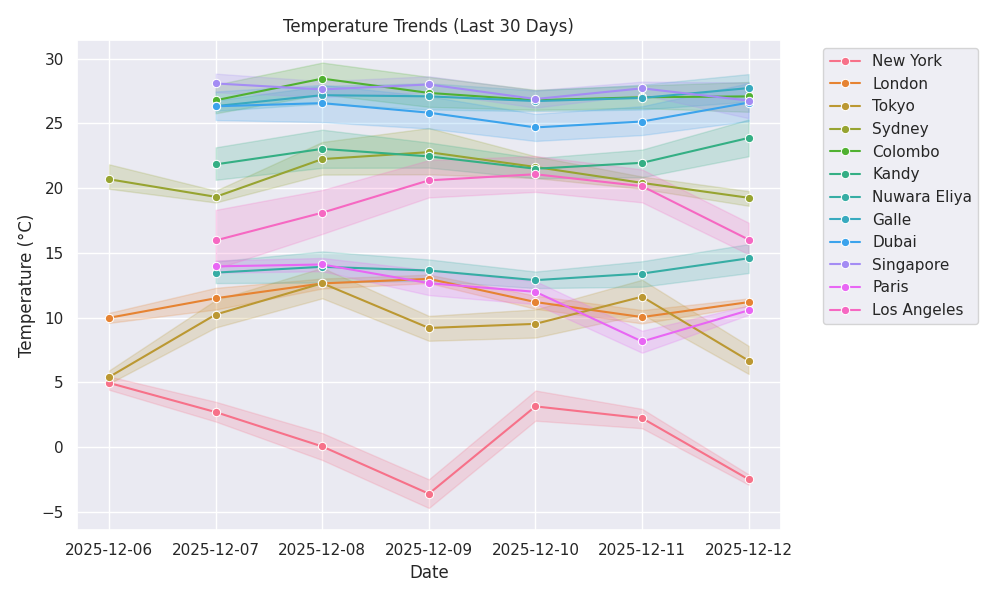
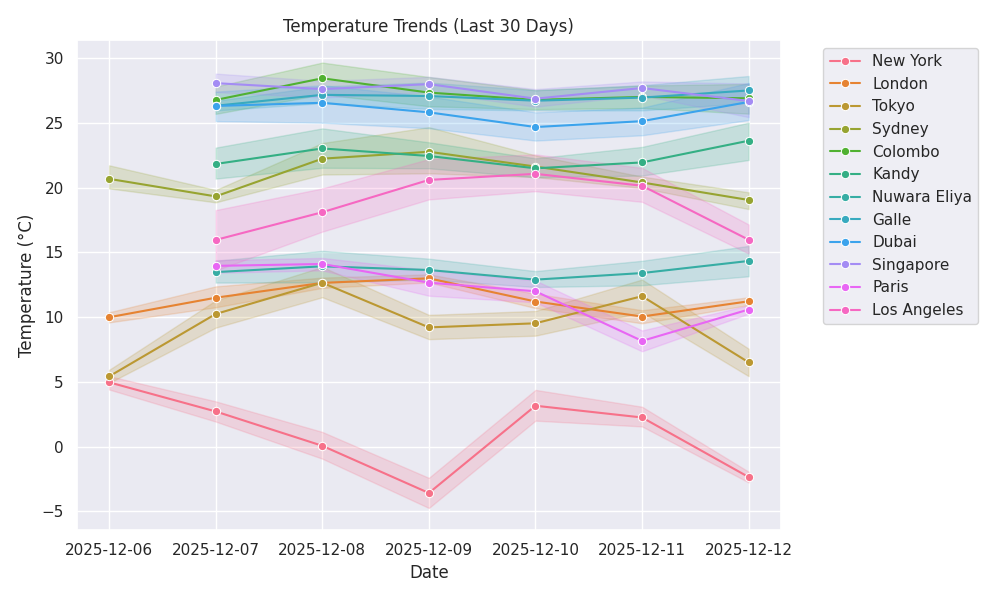
🌦 Weather update: 2025-12-12 16:15

diff --git a/public/index.html b/public/index.html
@@ -11,7 +11,7 @@
     <div class="max-w-6xl mx-auto">
         <header class="mb-8 text-center">
             <h1 class="text-4xl font-bold mb-2">🌍 Global Weather Dashboard</h1>
-            <p class="text-slate-400">Last Updated: 2025-12-12 15:15:16</p>
+            <p class="text-slate-400">Last Updated: 2025-12-12 16:15:40</p>
         </header>
         
         <!-- AI Summary -->
@@ -29,11 +29,11 @@
                     <span class="text-3xl">☁</span>
                 </div>
                 <div class="mt-4">
-                    <p class="text-4xl font-bold">11.28°C</p>
+                    <p class="text-4xl font-bold">10.84°C</p>
                     <p class="text-slate-400 capitalize">overcast clouds</p>
                 </div>
                 <div class="mt-4 text-sm text-slate-500">
-                    <p>💧 Humidity: 89%</p>
+                    <p>💧 Humidity: 90%</p>
                     <p>💨 Wind: 3.09 m/s</p>
                 </div>
             </div>
@@ -44,12 +44,12 @@
                     <span class="text-3xl">☁</span>
                 </div>
                 <div class="mt-4">
-                    <p class="text-4xl font-bold">11.96°C</p>
-                    <p class="text-slate-400 capitalize">overcast clouds</p>
+                    <p class="text-4xl font-bold">11.52°C</p>
+                    <p class="text-slate-400 capitalize">broken clouds</p>
                 </div>
                 <div class="mt-4 text-sm text-slate-500">
-                    <p>💧 Humidity: 86%</p>
-                    <p>💨 Wind: 3.6 m/s</p>
+                    <p>💧 Humidity: 88%</p>
+                    <p>💨 Wind: 3.13 m/s</p>
                 </div>
             </div>
             
@@ -59,12 +59,12 @@
                     <span class="text-3xl">☁</span>
                 </div>
                 <div class="mt-4">
-                    <p class="text-4xl font-bold">16.77°C</p>
+                    <p class="text-4xl font-bold">16.22°C</p>
                     <p class="text-slate-400 capitalize">few clouds</p>
                 </div>
                 <div class="mt-4 text-sm text-slate-500">
                     <p>💧 Humidity: 93%</p>
-                    <p>💨 Wind: 1.69 m/s</p>
+                    <p>💨 Wind: 1.76 m/s</p>
                 </div>
             </div>
             
@@ -74,12 +74,12 @@
                     <span class="text-3xl">☁</span>
                 </div>
                 <div class="mt-4">
-                    <p class="text-4xl font-bold">26.0°C</p>
+                    <p class="text-4xl font-bold">25.89°C</p>
                     <p class="text-slate-400 capitalize">broken clouds</p>
                 </div>
                 <div class="mt-4 text-sm text-slate-500">
-                    <p>💧 Humidity: 91%</p>
-                    <p>💨 Wind: 3.09 m/s</p>
+                    <p>💧 Humidity: 93%</p>
+                    <p>💨 Wind: 2.06 m/s</p>
                 </div>
             </div>
             
@@ -104,12 +104,12 @@
                     <span class="text-3xl">☁</span>
                 </div>
                 <div class="mt-4">
-                    <p class="text-4xl font-bold">24.86°C</p>
+                    <p class="text-4xl font-bold">24.59°C</p>
                     <p class="text-slate-400 capitalize">broken clouds</p>
                 </div>
                 <div class="mt-4 text-sm text-slate-500">
-                    <p>💧 Humidity: 88%</p>
-                    <p>💨 Wind: 3.1 m/s</p>
+                    <p>💧 Humidity: 91%</p>
+                    <p>💨 Wind: 2.92 m/s</p>
                 </div>
             </div>
             
@@ -119,12 +119,12 @@
                     <span class="text-3xl">☁</span>
                 </div>
                 <div class="mt-4">
-                    <p class="text-4xl font-bold">11.07°C</p>
+                    <p class="text-4xl font-bold">10.91°C</p>
                     <p class="text-slate-400 capitalize">broken clouds</p>
                 </div>
                 <div class="mt-4 text-sm text-slate-500">
-                    <p>💧 Humidity: 99%</p>
-                    <p>💨 Wind: 0.62 m/s</p>
+                    <p>💧 Humidity: 97%</p>
+                    <p>💨 Wind: 1.07 m/s</p>
                 </div>
             </div>
             
@@ -134,12 +134,12 @@
                     <span class="text-3xl">☁</span>
                 </div>
                 <div class="mt-4">
-                    <p class="text-4xl font-bold">20.35°C</p>
+                    <p class="text-4xl font-bold">20.19°C</p>
                     <p class="text-slate-400 capitalize">overcast clouds</p>
                 </div>
                 <div class="mt-4 text-sm text-slate-500">
                     <p>💧 Humidity: 98%</p>
-                    <p>💨 Wind: 1.76 m/s</p>
+                    <p>💨 Wind: 1.95 m/s</p>
                 </div>
             </div>
             
@@ -149,27 +149,27 @@
                     <span class="text-3xl">🌧</span>
                 </div>
                 <div class="mt-4">
-                    <p class="text-4xl font-bold">23.91°C</p>
+                    <p class="text-4xl font-bold">24.46°C</p>
                     <p class="text-slate-400 capitalize">moderate rain</p>
                 </div>
                 <div class="mt-4 text-sm text-slate-500">
                     <p>💧 Humidity: 97%</p>
-                    <p>💨 Wind: 4.99 m/s</p>
+                    <p>💨 Wind: 5.1 m/s</p>
                 </div>
             </div>
             
             <div class="bg-slate-800 p-6 rounded-xl shadow-lg border-t-4 border-blue-500 hover:scale-105 transition-transform">
                 <div class="flex justify-between items-start">
                     <h3 class="text-xl font-bold">New York</h3>
-                    <span class="text-3xl">☀</span>
+                    <span class="text-3xl">☁</span>
                 </div>
                 <div class="mt-4">
-                    <p class="text-4xl font-bold">-1.75°C</p>
-                    <p class="text-slate-400 capitalize">clear sky</p>
+                    <p class="text-4xl font-bold">-0.71°C</p>
+                    <p class="text-slate-400 capitalize">few clouds</p>
                 </div>
                 <div class="mt-4 text-sm text-slate-500">
-                    <p>💧 Humidity: 48%</p>
-                    <p>💨 Wind: 8.49 m/s</p>
+                    <p>💧 Humidity: 44%</p>
+                    <p>💨 Wind: 9.77 m/s</p>
                 </div>
             </div>
             
@@ -179,12 +179,12 @@
                     <span class="text-3xl">☁</span>
                 </div>
                 <div class="mt-4">
-                    <p class="text-4xl font-bold">4.09°C</p>
+                    <p class="text-4xl font-bold">4.08°C</p>
                     <p class="text-slate-400 capitalize">few clouds</p>
                 </div>
                 <div class="mt-4 text-sm text-slate-500">
-                    <p>💧 Humidity: 47%</p>
-                    <p>💨 Wind: 8.75 m/s</p>
+                    <p>💧 Humidity: 48%</p>
+                    <p>💨 Wind: 7.2 m/s</p>
                 </div>
             </div>
             
@@ -194,12 +194,12 @@
                     <span class="text-3xl">🌫</span>
                 </div>
                 <div class="mt-4">
-                    <p class="text-4xl font-bold">14.07°C</p>
+                    <p class="text-4xl font-bold">15.33°C</p>
                     <p class="text-slate-400 capitalize">fog</p>
                 </div>
                 <div class="mt-4 text-sm text-slate-500">
                     <p>💧 Humidity: 71%</p>
-                    <p>💨 Wind: 1.54 m/s</p>
+                    <p>💨 Wind: 0.0 m/s</p>
                 </div>
             </div>
             

diff --git a/README.md b/README.md
@@ -8,8 +8,8 @@
 
 ---
 
-## ⚡ Live Status (Updated: 2025-12-12 15:15 UTC)
-![Paris](https://img.shields.io/badge/Paris-11.28°C-blue) ![London](https://img.shields.io/badge/London-11.96°C-blue) ![Sydney](https://img.shields.io/badge/Sydney-16.77°C-green) ![Singapore](https://img.shields.io/badge/Singapore-26.0°C-orange) ![Dubai](https://img.shields.io/badge/Dubai-26.96°C-orange) ![Galle](https://img.shields.io/badge/Galle-24.86°C-green) ![Nuwara Eliya](https://img.shields.io/badge/Nuwara%20Eliya-11.07°C-blue) ![Kandy](https://img.shields.io/badge/Kandy-20.35°C-green) ![Colombo](https://img.shields.io/badge/Colombo-23.91°C-green) ![New York](https://img.shields.io/badge/New%20York--1.75°C-blue) ![Tokyo](https://img.shields.io/badge/Tokyo-4.09°C-blue) ![Los Angeles](https://img.shields.io/badge/Los%20Angeles-14.07°C-blue) 
+## ⚡ Live Status (Updated: 2025-12-12 16:15 UTC)
+![Paris](https://img.shields.io/badge/Paris-10.84°C-blue) ![London](https://img.shields.io/badge/London-11.52°C-blue) ![Sydney](https://img.shields.io/badge/Sydney-16.22°C-green) ![Singapore](https://img.shields.io/badge/Singapore-25.89°C-orange) ![Dubai](https://img.shields.io/badge/Dubai-26.96°C-orange) ![Galle](https://img.shields.io/badge/Galle-24.59°C-green) ![Nuwara Eliya](https://img.shields.io/badge/Nuwara%20Eliya-10.91°C-blue) ![Kandy](https://img.shields.io/badge/Kandy-20.19°C-green) ![Colombo](https://img.shields.io/badge/Colombo-24.46°C-green) ![New York](https://img.shields.io/badge/New%20York--0.71°C-blue) ![Tokyo](https://img.shields.io/badge/Tokyo-4.08°C-blue) ![Los Angeles](https://img.shields.io/badge/Los%20Angeles-15.33°C-green) 
 
 <div align="center">
   <h3>🏆 Weather Records (Live)</h3>
@@ -20,7 +20,7 @@
     </tr>
     <tr>
         <td align="center"><b>Dubai</b><br>26.96°C</td>
-        <td align="center"><b>New York</b><br>-1.75°C</td>
+        <td align="center"><b>New York</b><br>-0.71°C</td>
     </tr>
   </table>
 </div>
@@ -28,18 +28,18 @@
 ## 📊 Global Overview
 | 🌍 City | 🌡 Temp | 🌤 Condition | 💧 Humidity | 🌬 Wind |
 |---|---|---|---|---|
-| **Paris** | 11.28°C | overcast clouds | 🟦🟦🟦🟦⬜ 89% | 3.09 m/s |
-| **London** | 11.96°C | overcast clouds | 🟦🟦🟦🟦⬜ 86% | 3.6 m/s |
-| **Sydney** | 16.77°C | few clouds | 🟦🟦🟦🟦⬜ 93% | 1.69 m/s |
-| **Singapore** | 26.0°C | broken clouds | 🟦🟦🟦🟦⬜ 91% | 3.09 m/s |
+| **Paris** | 10.84°C | overcast clouds | 🟦🟦🟦🟦⬜ 90% | 3.09 m/s |
+| **London** | 11.52°C | broken clouds | 🟦🟦🟦🟦⬜ 88% | 3.13 m/s |
+| **Sydney** | 16.22°C | few clouds | 🟦🟦🟦🟦⬜ 93% | 1.76 m/s |
+| **Singapore** | 25.89°C | broken clouds | 🟦🟦🟦🟦⬜ 93% | 2.06 m/s |
 | **Dubai** | 26.96°C | clear sky | 🟦🟦⬜⬜⬜ 47% | 2.57 m/s |
-| **Galle** | 24.86°C | broken clouds | 🟦🟦🟦🟦⬜ 88% | 3.1 m/s |
-| **Nuwara Eliya** | 11.07°C | broken clouds | 🟦🟦🟦🟦⬜ 99% | 0.62 m/s |
-| **Kandy** | 20.35°C | overcast clouds | 🟦🟦🟦🟦⬜ 98% | 1.76 m/s |
-| **Colombo** | 23.91°C | moderate rain | 🟦🟦🟦🟦⬜ 97% | 4.99 m/s |
-| **New York** | -1.75°C | clear sky | 🟦🟦⬜⬜⬜ 48% | 8.49 m/s |
-| **Tokyo** | 4.09°C | few clouds | 🟦🟦⬜⬜⬜ 47% | 8.75 m/s |
-| **Los Angeles** | 14.07°C | fog | 🟦🟦🟦⬜⬜ 71% | 1.54 m/s |
+| **Galle** | 24.59°C | broken clouds | 🟦🟦🟦🟦⬜ 91% | 2.92 m/s |
+| **Nuwara Eliya** | 10.91°C | broken clouds | 🟦🟦🟦🟦⬜ 97% | 1.07 m/s |
+| **Kandy** | 20.19°C | overcast clouds | 🟦🟦🟦🟦⬜ 98% | 1.95 m/s |
+| **Colombo** | 24.46°C | moderate rain | 🟦🟦🟦🟦⬜ 97% | 5.1 m/s |
+| **New York** | -0.71°C | few clouds | 🟦🟦⬜⬜⬜ 44% | 9.77 m/s |
+| **Tokyo** | 4.08°C | few clouds | 🟦🟦⬜⬜⬜ 48% | 7.2 m/s |
+| **Los Angeles** | 15.33°C | fog | 🟦🟦🟦⬜⬜ 71% | 0.0 m/s |
 
 
 ## 📈 Temperature Trends
